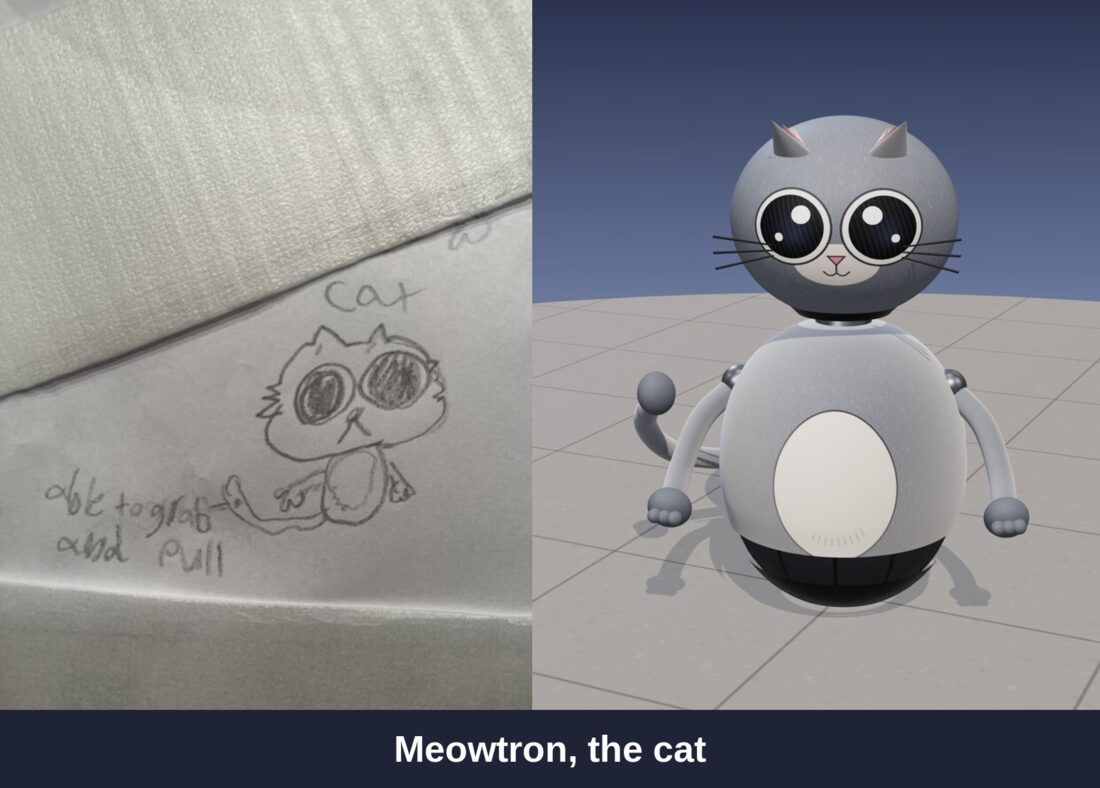
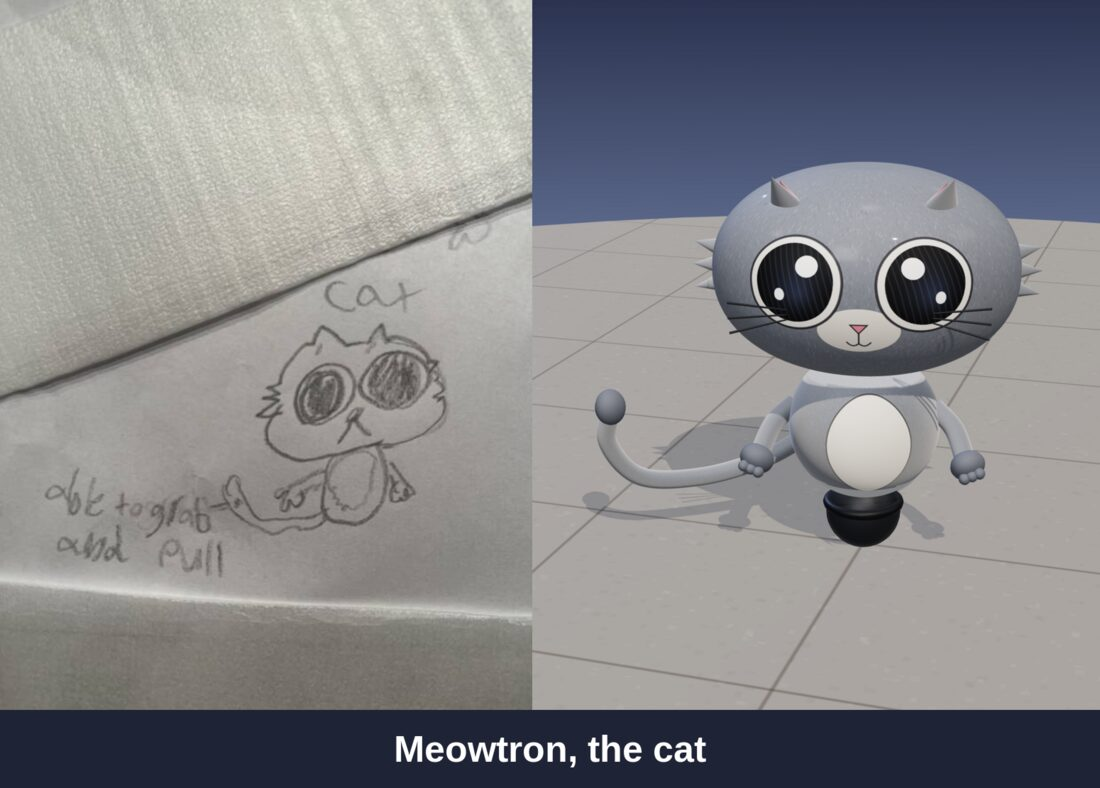
Shape the sketchbook characters like the drawings
Each character's head and body now take the proportions and shapes of
its drawing (big heads on small bodies, no neck, a small roller instead
of the giant drive sphere), from one shape generator per part. Re-renders
the concept pictures, drops the spider's extra legs to match its drawing,
and updates the design to match.

Claude-Session: https://claude.ai/code/session_01Hd9FrupR173vv3W464VfxR

diff --git a/docs/initiatives/sketchbook-characters.md b/docs/initiatives/sketchbook-characters.md
@@ -10,13 +10,18 @@
 Five characters, drawn by the owner's son: a **cat**, an **astronaut**, a **pumpkin**, a **spider**, and a
 **homemade** robot. Each one becomes a **special build** in the Bot Maker: a robot dressed up as the drawing.
 
-The trick is that they share their shapes. Every character has **the same torso** and **the same head**: one
-geometry each, built once. What tells them apart is the **skin** (the cat's fur, the astronaut's suit, the pumpkin's
-overalls) and a few small **features** stuck on top (ears, an antenna, a stem, a tail). So five characters cost two
-meshes, five sets of textures, and a handful of little add-ons.
+**Each one is shaped like its drawing, not like today's robot:** a big head sitting right on a small body, no neck,
+and no giant drive ball. The cat and the pumpkin have huge wide heads, the astronaut a wide round-cornered helmet on a
+boxy suit, the spider a tall head under a round cap, and the homemade robot an oval head sunk into a wooden pail.
 
-They're still robots. Each rolls on the drive sphere like every robot on Ring Seven, eats carrots through a jaw, and
-takes paint. They're robots in costume, and each has a robot name that plays on what it is.
+They still share their shapes, in the way that counts for code. Every head is built by **one shape generator** with
+the same layout (the same vertices, texture map, and feature spots), and so is every torso. A character sets a few
+numbers (width, height, depth, how boxy, how tapered) to match its drawing. What else tells them apart is the
+**skin** (the cat's fur, the astronaut's suit, the pumpkin's overalls) and a few small **features** stuck on top
+(ears, an antenna, a stem, a tail).
+
+They're still robots. Each rolls on a small drive roller tucked under its body, eats carrots through a jaw, and takes
+paint. They're robots in costume, and each has a robot name that plays on what it is.
 
 ## The drawings
 
@@ -26,9 +31,9 @@ takes paint. They're robots in costume, and each has a robot name that plays on 
 
 ### In the game
 
-Concept renders, one per drawing, built in three.js from the shared shapes this doc plans: one torso and one head
-for all five, each in its own skin, with its own features and hands. They're a look to aim for, not the final
-parts.
+Concept renders, one per drawing, built in three.js the way this doc plans: one head generator and one torso
+generator for all five, each set to its drawing's proportions, in its own skin, with its own features and hands.
+They're a look to aim for, not the final parts.
 
 ![All five characters in the game](sketchbook/all-in-game.jpg)
 
@@ -47,6 +52,9 @@ By the owner, 2026-11-07.
 
 - **Five characters, from the drawings:** cat, astronaut, pumpkin, spider, and homemade.
 - **Same torso geometry, same head geometry.** Every character's torso is one shared shape, and every head is another.
+- **Shaped like the drawings, not like today's robot (2026-11-07).** Each character's head and body take the
+  proportions and shapes of its drawing. So the sharing is one layout per part (one generator, one texture map, the
+  same feature spots), with each character's own shape numbers.
 - **Skins tell them apart:** the cat has a cat's body, the astronaut a space suit, the pumpkin overalls.
 - **Features on top:** ears, antennas, stems, and the like, added to the shared shapes.
 - **They're a catalog** of skins and avatars in the Bot Maker, and each one is a quirky play on robots.
@@ -57,8 +65,8 @@ By the owner, 2026-11-07.
 - **The robot names:** Meowtron (cat), Astrobolt (astronaut), Patch (pumpkin), Spindle (spider), and Twiggs (homemade).
   The catalog card shows the drawing's own word under the name: "Meowtron, the cat".
 - **Characters are parts, so kids can mix them.** Each character is a torso, a head, and arms, one in each of the
-  `body`, `head`, and `arms` slots. Since the shapes are shared, every head fits every torso: a pumpkin head on a space
-  suit just works. A character is a **preset build** on the Characters shelf, and one tap puts on all three parts.
+  `body`, `head`, and `arms` slots. Every torso has its neck spot on top and every head sits on it, so every head fits
+  every torso: a pumpkin head on a space suit just works. A character is a **preset build** on the Characters shelf, and one tap puts on all three parts.
 - **Arms too.** The drawings give each character its own hands (paws, mittens, fingers, claws, twigs), so the arms are
   a shared shape with a skin and a hand of their own, like the torso and head.
 - **Paint colors the main skin, not the details.** A painted cat is an orange cat with the same white belly, dark eyes,
@@ -71,15 +79,29 @@ By the owner, 2026-11-07.
 
 ### The shared shapes
 
-Built once each and reused by every character, so the GPU holds one copy of each, however many robots wear them.
+- **One generator per part.** Heads and torsos are superellipsoids: a ball that can be stretched wide or tall, made
+  boxier, or tapered, from five numbers. Every head comes out with the same vertices, texture map, and feature spots,
+  and so does every torso, so skins and features work the same on all of them. Each character's shape is built once
+  and shared by every robot wearing it.
+- **The proportions come from the drawings,** in meters, with today's robot about 3.3 m tall for scale:
 
-- **The torso:** an egg-shaped shell over the top of the drive sphere, a little narrower at the shoulders, like the
-  round bellies in the drawings. It has the rust ball's mounts (neck height, shoulders, and the hold point), so any
-  head and any arms fit it, and a character's head and arms fit the old bodies too.
-- **The head:** big and round, a little wider than tall (about 0.85 by 0.75), since every drawing gives its character
-  a big round head. It sits on the same short neck as the big-eye dome.
+  | | Head (wide × tall × deep) | Torso (wide × tall × deep) | Shape notes |
+  | --- | --- | --- | --- |
+  | Meowtron | 2.36 × 1.6 × 1.84 | 1.2 × 1.2 × 1.1 | The head is twice the body's width |
+  | Astrobolt | 2.2 × 1.44 × 1.8, round-cornered | 1.2 × 1.1 × 1.0, boxy | A helmet with flat-ish sides on a box |
+  | Patch | 2.5 × 1.64 × 2.0 | 1.0 × 1.24 × 0.92 | The widest head; a narrow body |
+  | Spindle | 1.2 × 1.6 × 1.16, tall | 0.96 × 0.84 × 0.92 | A tall oval head on a small round body |
+  | Twiggs | 1.72 × 1.24 × 1.52 | 1.7 × 1.2 × 1.6, flat top and bottom | The head sinks into a pail as wide as it is |
+
+- **No neck.** The head sits right on the torso, sunk into it a little, like the drawings.
+- **The roller.** Characters don't sit on the giant drive sphere. Their mobility is a small drive roller (about 0.6 m
+  across) mostly hidden under the body, so the robot is still a robot that rolls. It moves like the sphere; only the
+  look and the collision size change.
+- **Torsos keep the standard mounts** (the neck spot on top, shoulders, the hold point, a chest hatch), placed on each
+  shape, so any head and any arms fit any torso, and a character's head and arms fit the old bodies too.
 - **The arms:** a soft, round-ended tube from the shoulder that hangs and swings like the noodle arms, with a **hand**
-  on the end. The hand changes per character: there are five hands, and the arm is one shape.
+  on the end. The hand and the arm's length change per character: the cat's are stubby, the spider's arch out to the
+  floor, and Twiggs's are sticks held straight out.
 - **The jaw:** the head's jaw is one cut in the shared shape (the lower front, below the face), the same for every
   character. Each skin draws its own mouth on it: the cat's little "ω", the pumpkin's grin, the astronaut's chin plate.
   If there's no head, the torso's chest hatch is the mouth, as on every body.
@@ -113,8 +135,7 @@ does (a painted cat's ears match its fur) unless noted.
 | Control box | torso `front` | A box on the chest with a checkerboard of buttons, a few lit. Never painted |
 | Stem | head `top` | A short, thick, slightly bent green stem. Never painted |
 | Overall straps | torso `front` | Two straps over the shoulders, a bib, and two round buttons. The denim takes paint, buttons don't |
-| Spider cap | head `top` | A flat, round cap, like the one in the drawing |
-| Spider legs | torso `sides` | Three short folded legs on each side that tap as it rolls, so it has eight limbs with its arms |
+| Spider cap | head `top` | A round dome cap with a rolled rim, like the one in the drawing |
 | Twine | torso, arms | Rope bands tied round the torso and the wrists, with loose ends |
 
 ### The characters
@@ -124,7 +145,7 @@ does (a painted cat's ears match its fur) unless noted.
 | **Meowtron**, the cat | Soft gray fur, two huge dark eyes ringed in black with white shines, a small nose and a "ω" mouth | Gray fur with a pale oval belly | Paws with three toe lines | Ears, whiskers, tail |
 | **Astrobolt**, the astronaut | A white helmet with a big glossy black visor, streaked with reflections; the chin plate is the jaw | A white space suit with seams and a utility belt | Puffy mittens | Antenna, ear bolts, control box |
 | **Patch**, the pumpkin | Pumpkin orange with darker ribs running down from the top, two round eyes, a square nose, and a little grin | Blue denim overalls over a plain shirt | Gloves with four fingers | Stem, overall straps |
-| **Spindle**, the spider | Deep purple, a cluster of eight shiny eyes (two big, six small), and two little fangs on the jaw | Purple with a paler hourglass on the back | Long, thin, jointed fingers, three hooked claws | Spider cap, spider legs |
+| **Spindle**, the spider | Deep purple, a cluster of eight shiny eyes (two big, six small), and two little fangs on the jaw | Purple with a paler hourglass on the back | Four thin hooked claws at the end of long arching arms | Spider cap |
 | **Twiggs**, the homemade robot | Wooden staves, as if nailed together in a garage: two bottle-cap eyes and a marker-drawn smile | Wooden staves round like a barrel, with nail heads | Two sticks bound with twine, and twig fingers | Twine |
 
 Twiggs's drawing has no face, so the bottle caps and the marker smile are a guess. The spider's eyes are too: its
@@ -183,10 +204,10 @@ merges.
 
 | # | Status | Branch | PR title | What it adds | Protocol / schema |
 | --- | --- | --- | --- | --- | --- |
-| 1 | Next | `feature/sketchbook-cat` | Turn the sketchbook cat into a robot | The shared torso, head, and arm shapes with their feature anchors and jaw; skins with paint masks (the coat shader's `cure × mask`); `shared/content/characters.ts`; the Characters shelf with the drawing on each card. Meowtron: its skins, paws, ears, whiskers, and a tail that swishes (grabbing comes in PR 6). A close-up screenshot, painted and not, and every classic baseline unchanged. | `PROTOCOL_VERSION` bump |
+| 1 | Next | `feature/sketchbook-cat` | Turn the sketchbook cat into a robot | The head and torso shape generators, each character's shape numbers, the shared arm, feature anchors, and jaw; the small drive roller as a mobility part; skins with paint masks (the coat shader's `cure × mask`); `shared/content/characters.ts`; the Characters shelf with the drawing on each card. Meowtron: its skins, paws, ears, whiskers, and a tail that swishes (grabbing comes in PR 6). A close-up screenshot, painted and not, and every classic baseline unchanged. | `PROTOCOL_VERSION` bump |
 | 2 | | `feature/sketchbook-astronaut` | Turn the sketchbook astronaut into a robot | Astrobolt: the helmet and visor, the space suit, mittens, the antenna, ear bolts, and the control box. A screenshot. | `PROTOCOL_VERSION` bump |
 | 3 | | `feature/sketchbook-pumpkin` | Turn the sketchbook pumpkin into a robot | Patch: the pumpkin skin and face, the stem, the overalls with straps and buttons, and gloves. A screenshot. | `PROTOCOL_VERSION` bump |
-| 4 | | `feature/sketchbook-spider` | Turn the sketchbook spider into a robot | Spindle: the purple skin and eight eyes, the cap, the long hooked arms, and the six little legs that tap as it rolls. A screenshot. | `PROTOCOL_VERSION` bump |
+| 4 | | `feature/sketchbook-spider` | Turn the sketchbook spider into a robot | Spindle: the purple skin and eight eyes, the cap, and the two long arms that arch out to hooked claws on the floor. A screenshot. | `PROTOCOL_VERSION` bump |
 | 5 | | `feature/sketchbook-homemade` | Turn the sketchbook homemade robot into a robot | Twiggs: the wooden staves, bottle-cap eyes and marker smile, the stick arms, and twine. A screenshot sheet of all five characters, and of a few mixed builds. | `PROTOCOL_VERSION` bump |
 | 6 | | `feature/cat-tail-grab` | Let the cat's tail grab and pull things | The tail as a third hand: whip out, grab a held item up to 2.5 m away, pull it in. A `tail` pose field, a second held slot, and the server checking the reach. Needs `foundation/server-held-items`. | `PROTOCOL_VERSION` bump |
 
@@ -215,7 +236,7 @@ PRs 1 to 5 don't need anything else and can merge any time, in any order after P
 | --- | --- |
 | The paint mask changes the coat shader, and with it every painted robot | Parts without a mask take the old path (a define, not a uniform), so their shader is byte-identical, and the baselines prove it |
 | Features add draw calls to every robot | Each feature is a few small meshes; merge a robot's static ones per material after it's built, as the parts catalog plans. Watch Quest frame time with 10 characters |
-| Thin whiskers and spider legs shimmer in VR | Whiskers are thin flat strips with alpha-to-coverage, not lines; check them in the VR close-up |
+| Thin whiskers and claws shimmer in VR | Whiskers are thin flat strips with alpha-to-coverage, not lines; check them in the VR close-up |
 | The tail's 2.5 m reach feels like stealing | It can't take what's held or for sale, and the server checks the reach |
 | A guessed face (Twiggs, Spindle) isn't what the artist meant | Show the son the screenshots before each PR merges, and change the skin, not the shape |
 
